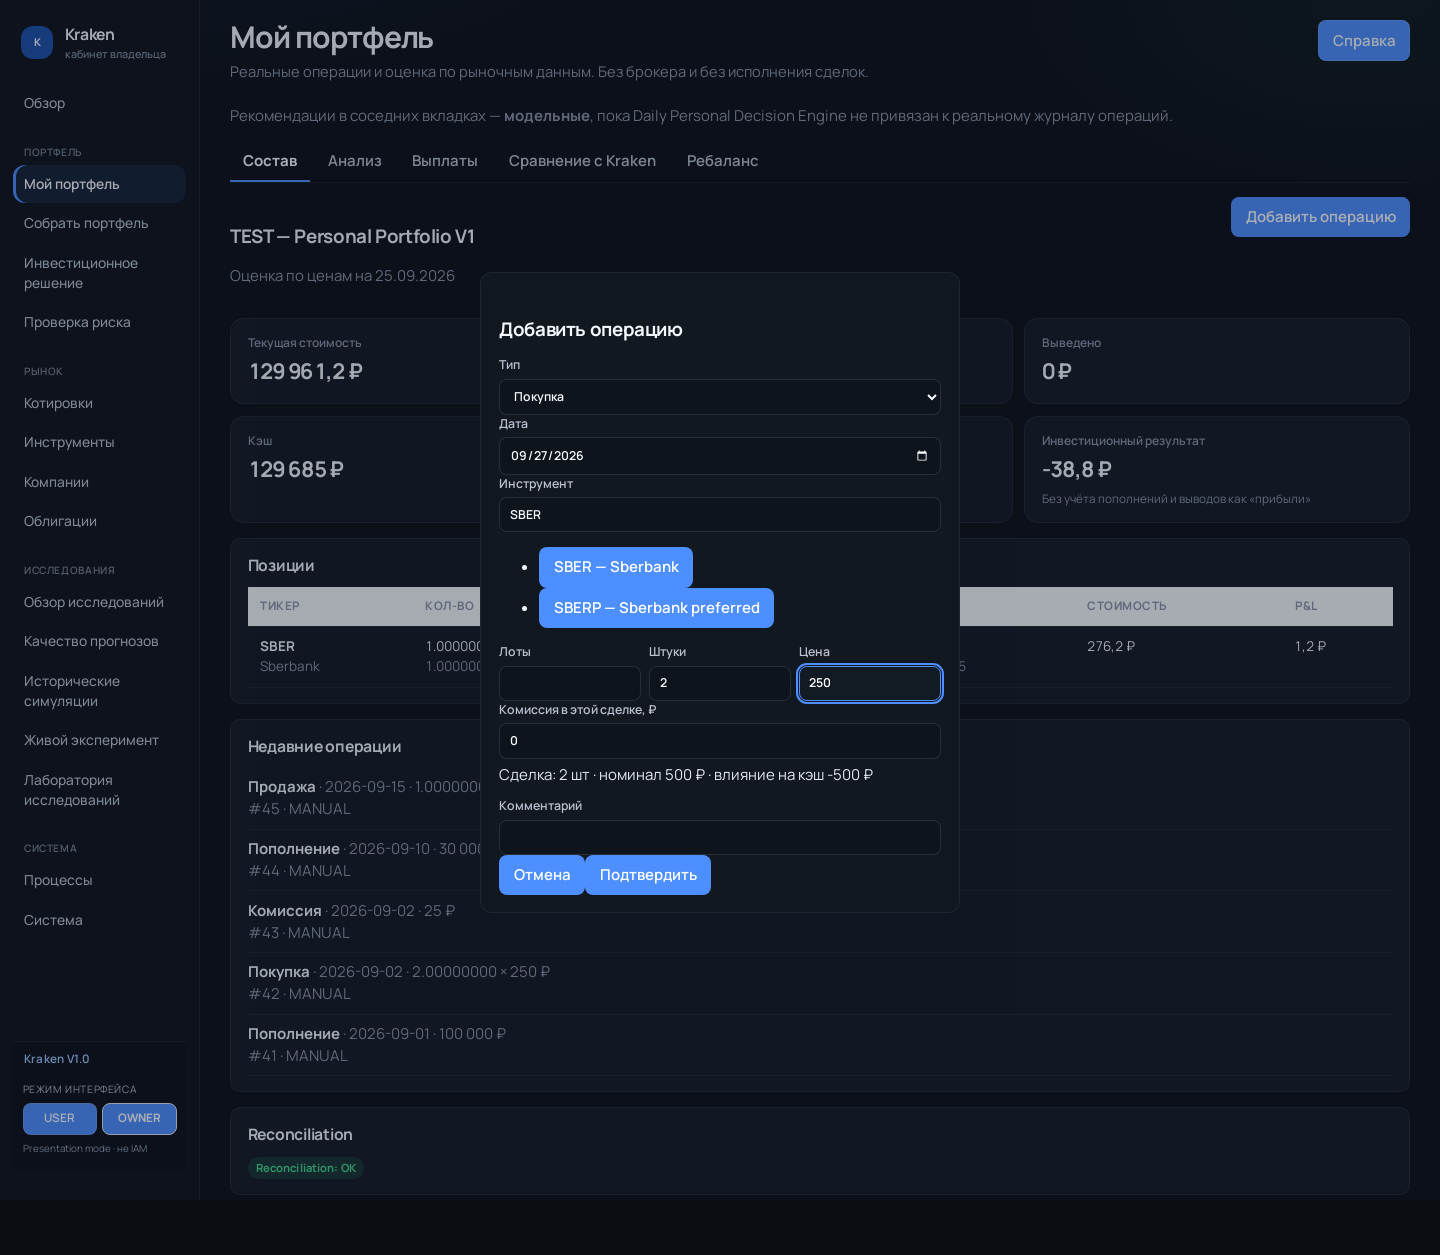
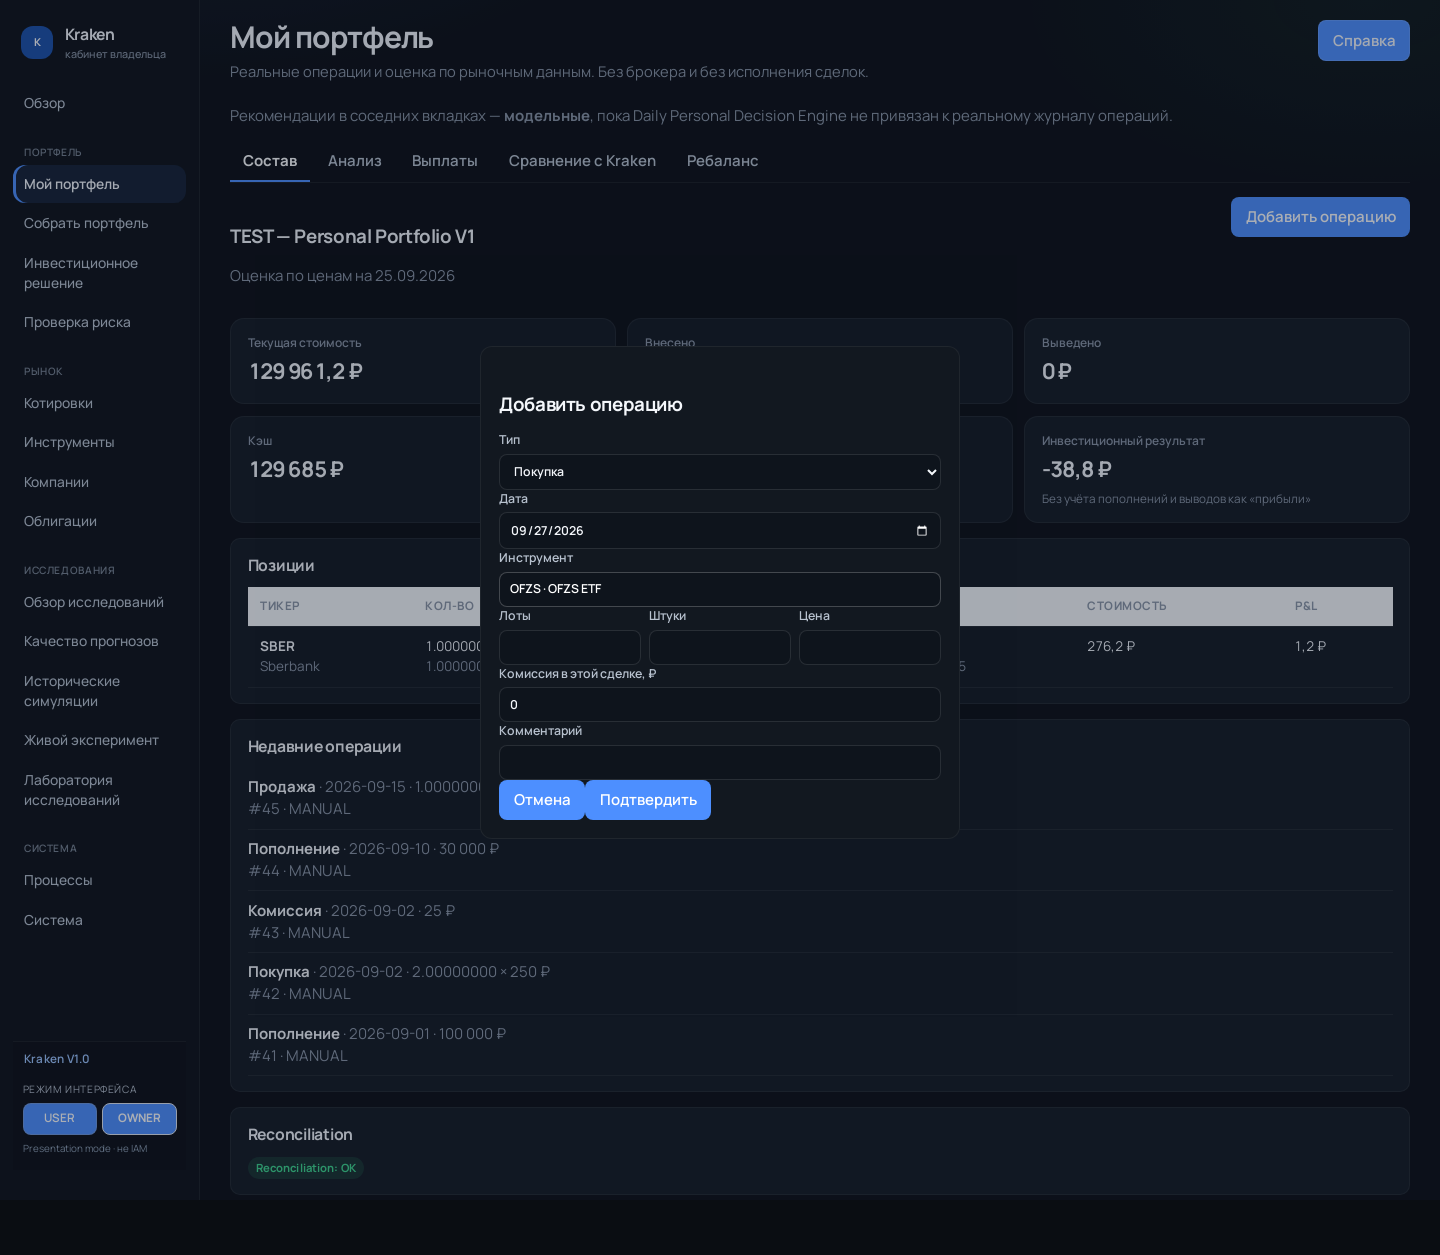
chore(review-artifacts): refresh PR #63 personal-portfolio correctness

Changed region(s): [[0.3438, 0.3108, 0.5938, 0.7147], [0.5312, 0.5283, 0.6562, 0.5594], [0.3438, 0.2486, 0.4688, 0.2797]]

diff --git a/review-artifacts/pr-63-personal-portfolio-v1/README.md b/review-artifacts/pr-63-personal-portfolio-v1/README.md
@@ -1,26 +1,26 @@
 # Review artifacts — PR #63
 
 ## Feature
-Personal Portfolio V1 + lean image-only release runtime (development toward future V1.1; no version bump).
+Personal Portfolio V1 + lean release runtime — **corrective financial pass**.
 
 ## Commit
-`50929bb` on `feature/personal-portfolio-v1`
+`0f0884b8cb315e1008e67b130756775b4c5a507b` on `feature/personal-portfolio-v1`
 
 ## Artifacts
 
 | File | What it shows |
 |---|---|
-| `01-personal-portfolio-empty.png` | Live empty primary portfolio onboarding (Основной портфель) |
-| `02-personal-portfolio-summary.png` | Summary cards: NAV, contributed, cash, securities, investment P&L |
-| `03-add-deposit.png` | Add operation modal — Пополнение |
-| `04-add-buy.png` | Add operation modal — Покупка with instrument/lots/price |
-| `05-position-pnl.png` | Positions table with average/current price and P&L |
-| `06-operation-history.png` | Recent journal (deposit / buy / commission / +30k / sell) |
-| `07-owner-reconciliation.png` | OWNER diagnostics: Reconciliation OK + operation IDs |
-| `08-dashboard-personal-binding.png` | Dashboard hero bound to personal portfolio valuation |
+| `01-personal-portfolio-empty.png` | Live empty primary onboarding |
+| `02-personal-portfolio-summary.png` | Summary: NAV / contributed / cash / investment P&L (absolute) |
+| `03-add-deposit.png` | Add operation — deposit |
+| `04-add-buy.png` | Add operation — buy form |
+| `05-position-pnl.png` | Positions + P&L |
+| `06-operation-history.png` | Journal history |
+| `07-owner-reconciliation.png` | OWNER Reconciliation OK |
+| `08-dashboard-personal-binding.png` | Dashboard: absolute investment result, label «В бумагах», no fake % |
+| `09-partial-valuation.png` | Partial valuation: investment P&L unavailable |
 
 ## Notes
-- Screenshots 02–07 use the isolated `is_test=true` E2E portfolio state (mocked in browser for review) so the owner's future real book is not polluted.
-- Contribution 130 000 ₽ vs investment P&L −38.8 ₽ proves deposits are not counted as profit.
-- Dark V1.0 theme preserved; USER/OWNER toggle visible.
-- Release runtime proof was run separately (image-only, then DEV bind mounts restored).
+- Screenshots 02–09 use isolated `is_test` / mocked review state (owner real book not polluted).
+- Bond journal trades are blocked (backend + UI); covered by automated tests.
+- Corrective fixes: bond dirty valuation, legacy bootstrap, journal write guards, partial P&L null, mixed as-of, idempotency intent.
